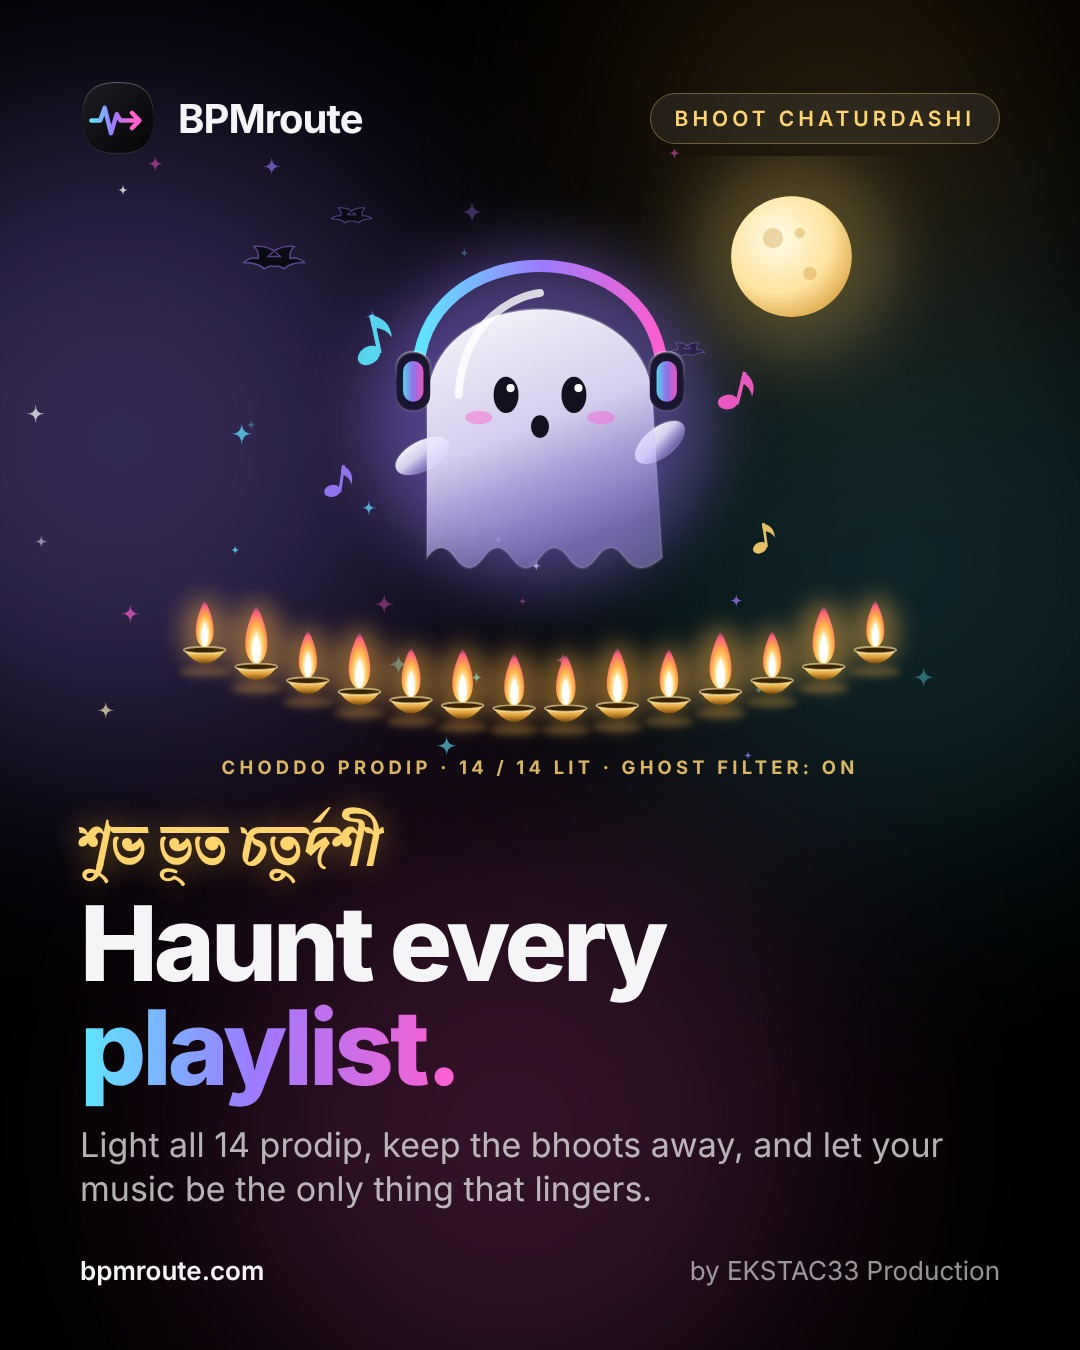
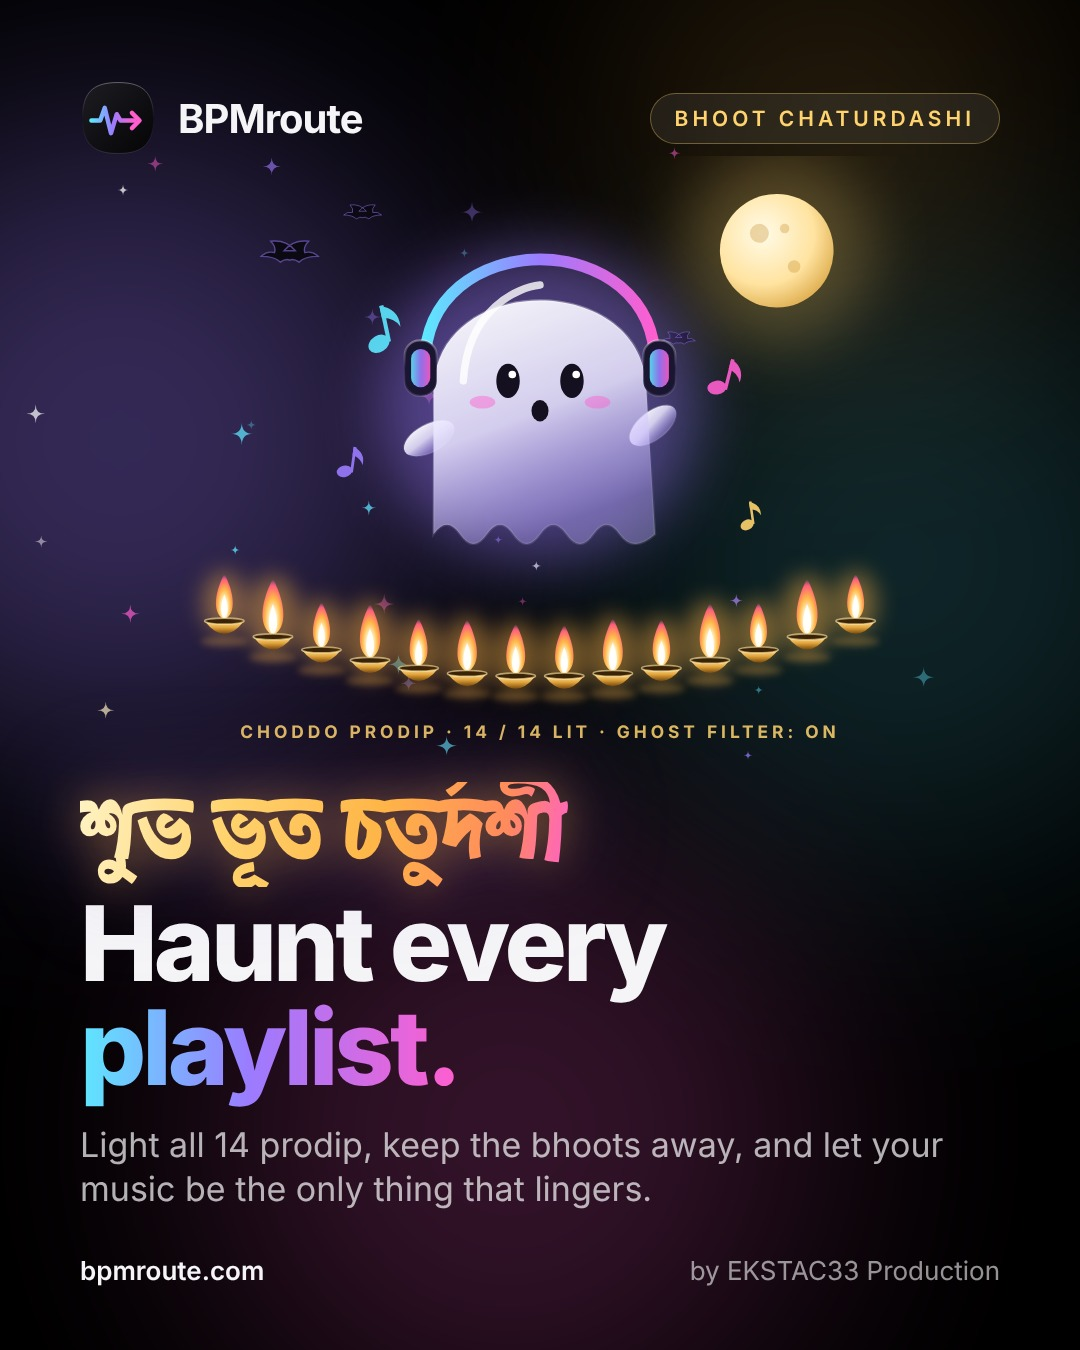
Bhoot Chaturdashi: bolder Atma Bengali headline with gold gradient glow
Claude-Session: https://claude.ai/code/session_01A8thwnEypk3sAes1NPHQyD

diff --git a/source/bhoot-chaturdashi/fonts/g.css b/source/bhoot-chaturdashi/fonts/g.css
@@ -70,3 +70,30 @@
   src: url(1efabc2214.woff2) format('woff2');
   unicode-range: U+0000-00FF, U+0131, U+0152-0153, U+02BB-02BC, U+02C6, U+02DA, U+02DC, U+0304, U+0308, U+0329, U+2000-206F, U+20AC, U+2122, U+2191, U+2193, U+2212, U+2215, U+FEFF, U+FFFD;
 }
+/* bengali */
+@font-face {
+  font-family: 'Atma';
+  font-style: normal;
+  font-weight: 700;
+  font-display: block;
+  src: url(6d3d044af7.woff2) format('woff2');
+  unicode-range: U+0951-0952, U+0964-0965, U+0980-09FE, U+1CD0, U+1CD2, U+1CD5-1CD6, U+1CD8, U+1CE1, U+1CEA, U+1CED, U+1CF2, U+1CF5-1CF7, U+200C-200D, U+20B9, U+25CC, U+A8F1, U+11DF0-11DF1;
+}
+/* latin-ext */
+@font-face {
+  font-family: 'Atma';
+  font-style: normal;
+  font-weight: 700;
+  font-display: block;
+  src: url(8c02e94020.woff2) format('woff2');
+  unicode-range: U+0100-02BA, U+02BD-02C5, U+02C7-02CC, U+02CE-02D7, U+02DD-02FF, U+0304, U+0308, U+0329, U+1D00-1DBF, U+1E00-1E9F, U+1EF2-1EFF, U+2020, U+20A0-20AB, U+20AD-20C4, U+2113, U+2C60-2C7F, U+A720-A7FF;
+}
+/* latin */
+@font-face {
+  font-family: 'Atma';
+  font-style: normal;
+  font-weight: 700;
+  font-display: block;
+  src: url(4f1c609e7f.woff2) format('woff2');
+  unicode-range: U+0000-00FF, U+0131, U+0152-0153, U+02BB-02BC, U+02C6, U+02DA, U+02DC, U+0304, U+0308, U+0329, U+2000-206F, U+20AC, U+2122, U+2191, U+2193, U+2212, U+2215, U+FEFF, U+FFFD;
+}

diff --git a/source/bhoot-chaturdashi/gen.py b/source/bhoot-chaturdashi/gen.py
@@ -25,7 +25,7 @@ header span{font-size:40px;font-weight:700;letter-spacing:-1px}
 .pill{margin-left:auto;font-size:21px;font-weight:600;letter-spacing:4px;padding:12px 24px;border-radius:999px;background:rgba(255,255,255,.07);border:1px solid rgba(255,211,110,.35);color:#ffd36e;backdrop-filter:blur(20px)}
 main{flex:1;display:flex;align-items:center;justify-content:center;min-height:0}
 main svg.art{width:100%%;height:100%%}
-.bn{font-family:"Galada","Hind Siliguri",serif;font-size:58px;line-height:1.2;color:#ffd36e;margin-bottom:2px;text-shadow:0 0 30px rgba(255,180,60,.45)}
+.bn{display:inline-block;font-family:"Atma","Galada",serif;font-weight:700;font-size:86px;line-height:1.15;padding:0 6px 6px 0;margin-bottom:4px;background:linear-gradient(100deg,#fff3c4 0%%,#ffd36e 30%%,#ffb547 60%%,#ff8a5e 85%%,#ff5ecf);-webkit-background-clip:text;background-clip:text;color:transparent;filter:drop-shadow(0 0 22px rgba(255,170,60,.45)) drop-shadow(0 0 50px rgba(155,123,255,.35))}
 h1{font-size:%(h1)dpx;line-height:1;font-weight:800;letter-spacing:-4px}
 h1 em{font-style:normal;background:linear-gradient(90deg,#5ee7ff,#9b7bff 45%%,#ff5ecf);-webkit-background-clip:text;background-clip:text;color:transparent}
 .copy{margin-top:26px}
